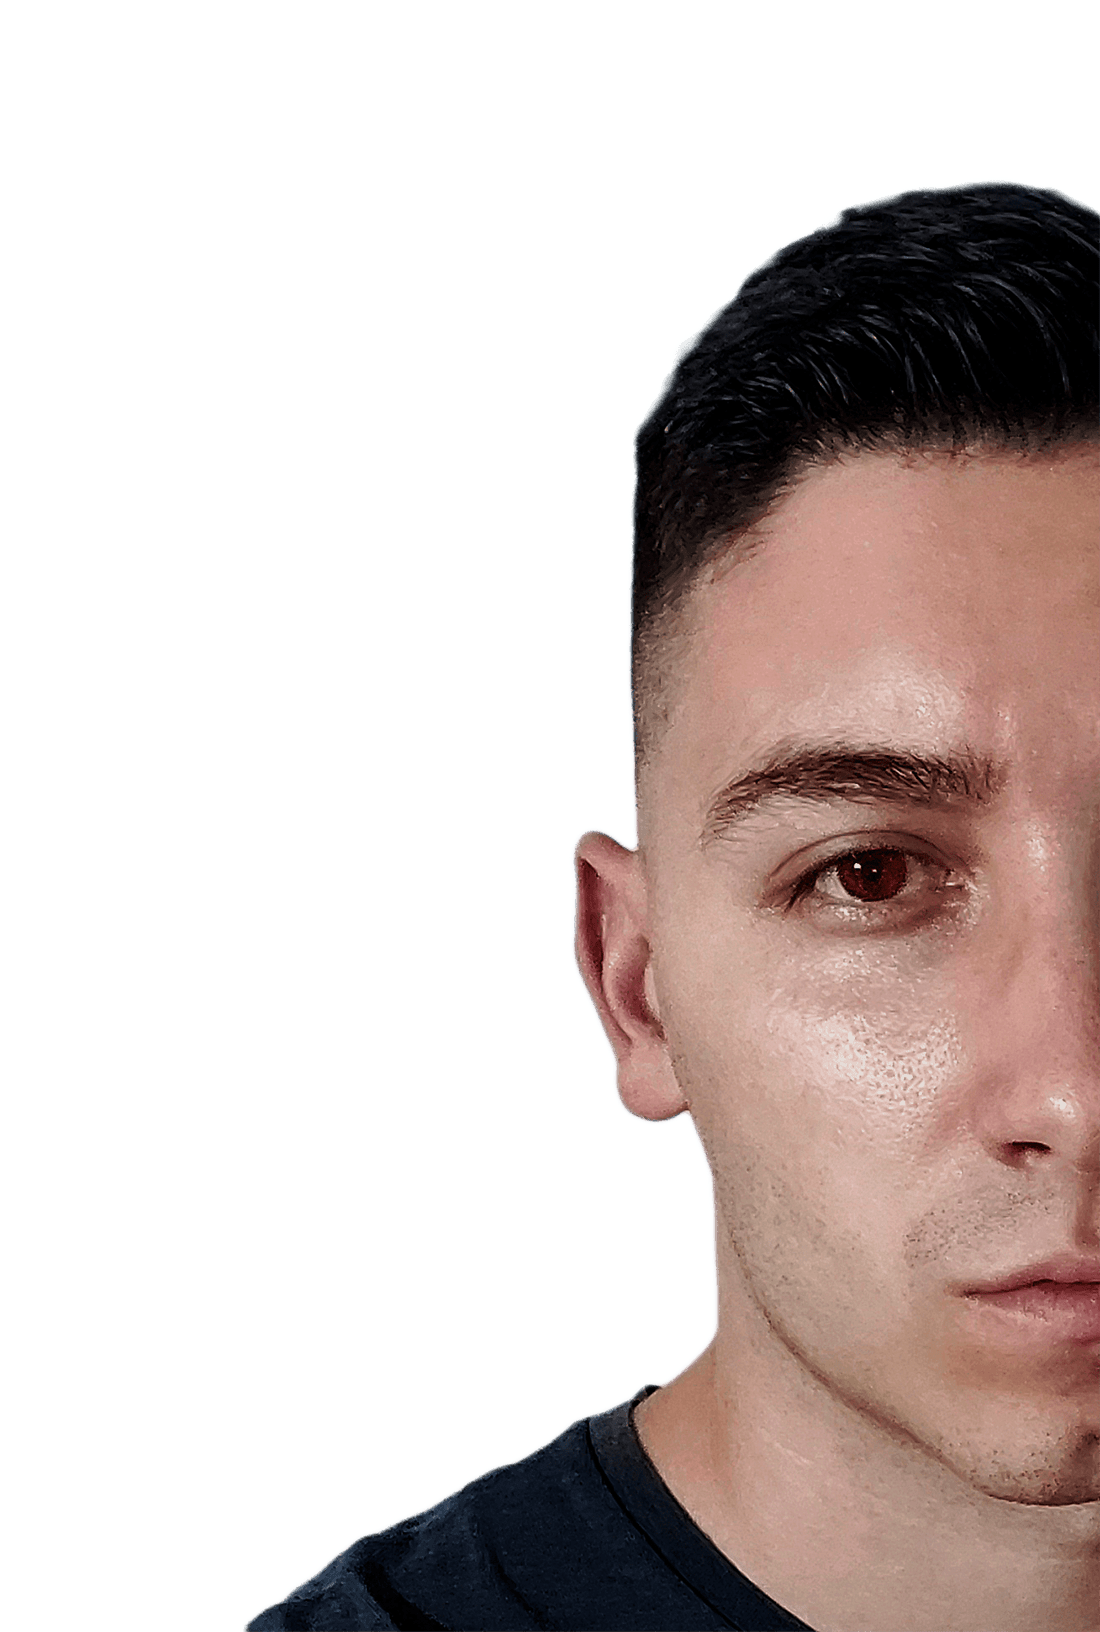
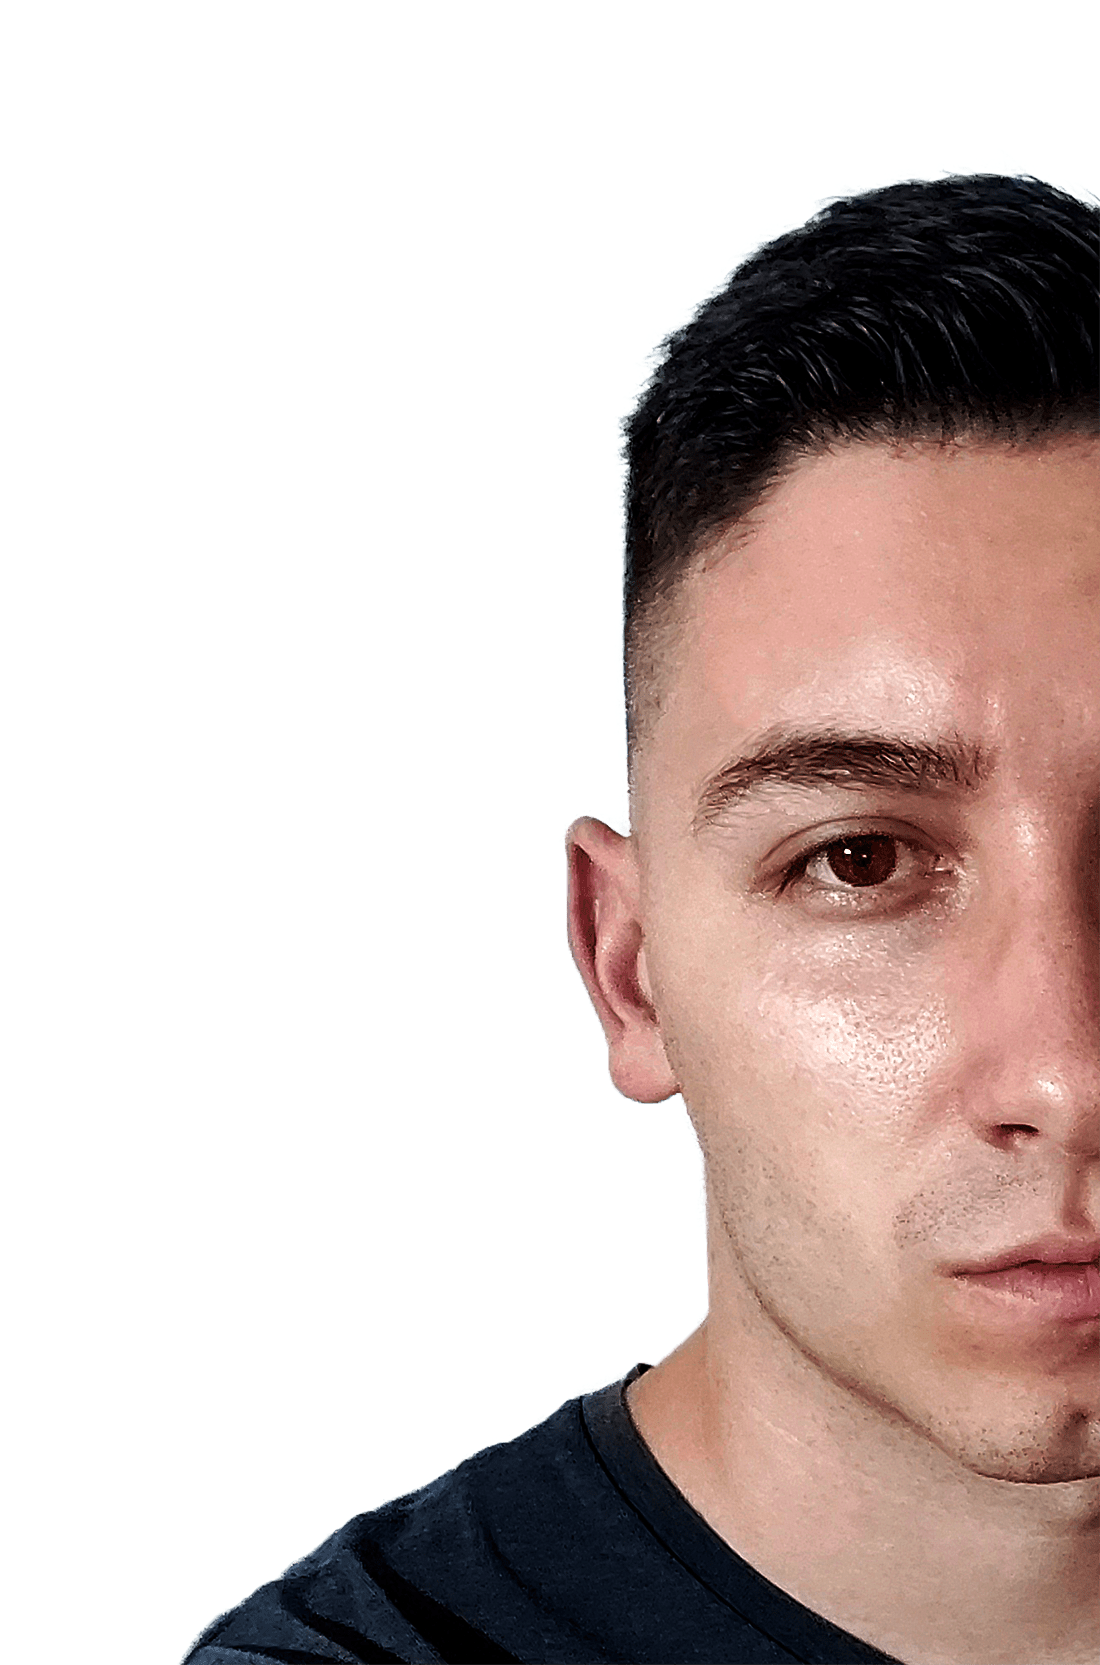
update pictures

Changed region(s): [[0.1545, 0.0938, 1.0, 1.0]]

diff --git a/src/style/dark.scss b/src/style/dark.scss
@@ -28,7 +28,7 @@ body {
     position: fixed !important;
     top: 0 !important;
     left: 0 !important;
-    background: url("../assets/home-dark-bg-min.png") no-repeat right bottom fixed !important;
+    background: url("../assets/home-bg-baw-min.png") no-repeat right bottom fixed !important;
     -webkit-background-size: contain !important;
     -moz-background-size: contain !important;
     -o-background-size: contain !important;
